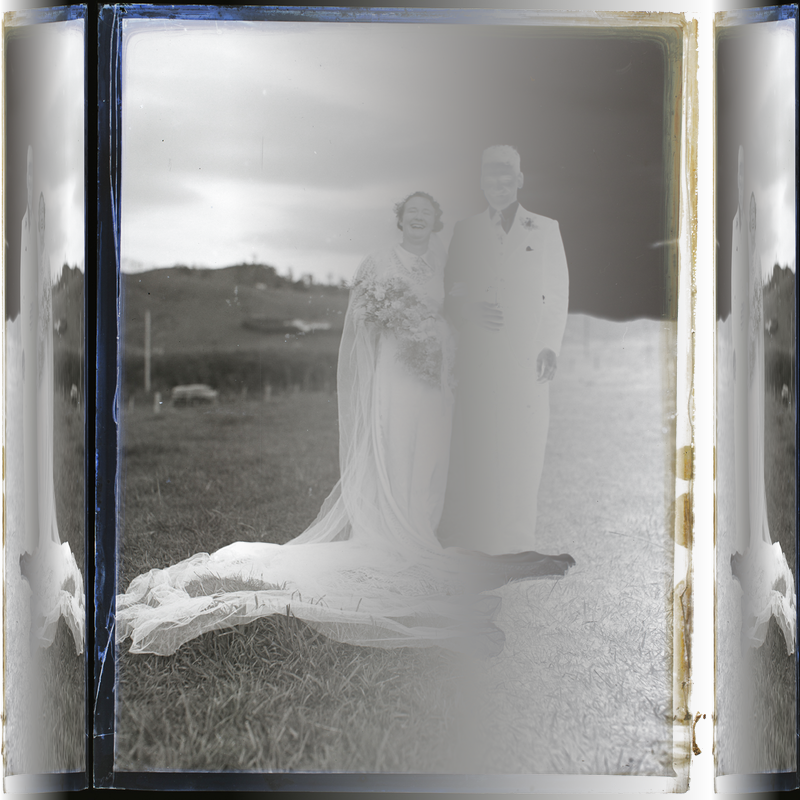
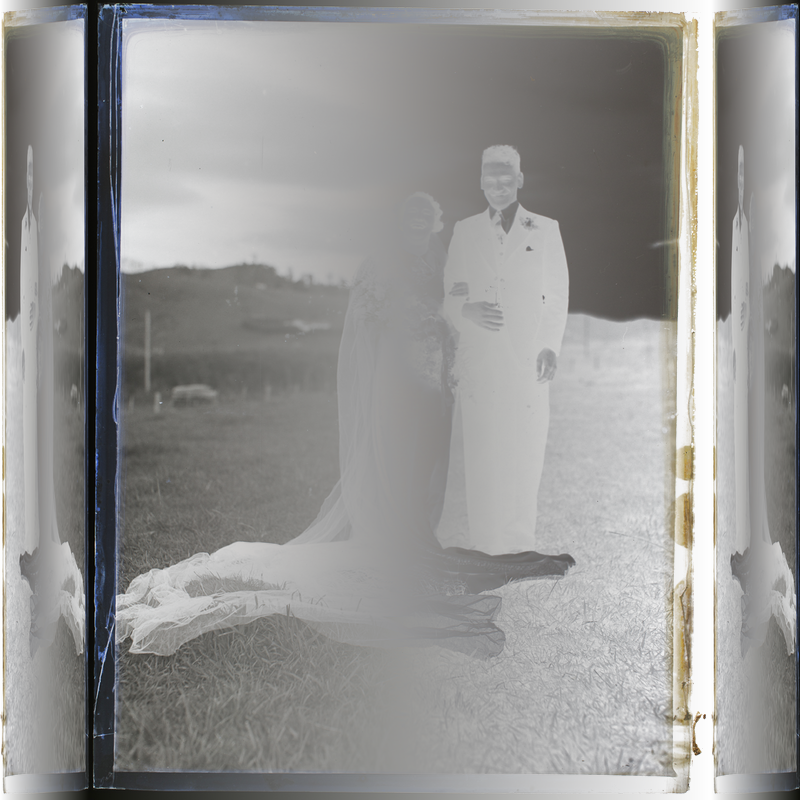
fixed small typo

diff --git a/content/post/2022-12-14-morphplusneg/index.md b/content/post/2022-12-14-morphplusneg/index.md
@@ -1,5 +1,5 @@
 ---
-title: Morphing between posiitive and Negative
+title: Morphing between positive and Negative
 author: DWD
 date: '2022-12-14'
 slug: morphPlusNeg
@@ -71,7 +71,7 @@ for (i in 1:length(stack2) ){
 tst =  stack1[i]
 stack2[i]=makeTessalation(tst,rows=1,columns=3,decay=-2.8,center=c(2,1),option=1)
 }
-stack1[5]
+stack2[6]
 ```
 
 <img src="{{< blogdown/postref >}}index_files/figure-html/unnamed-chunk-3-1.png" width="100%" />
